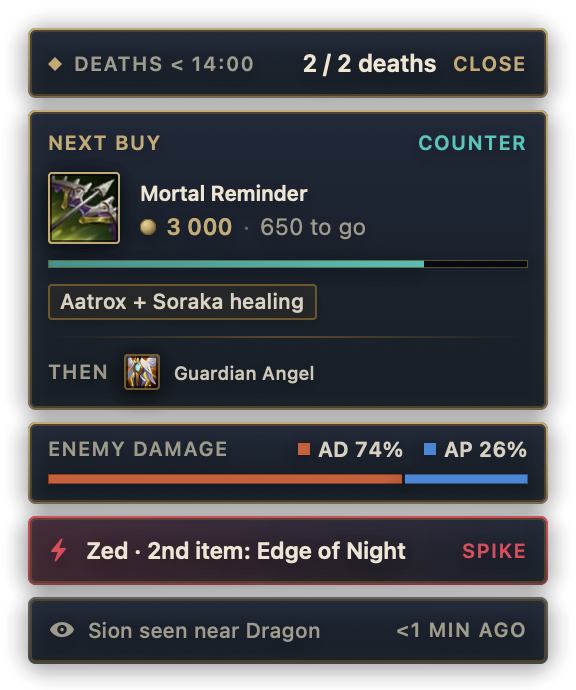
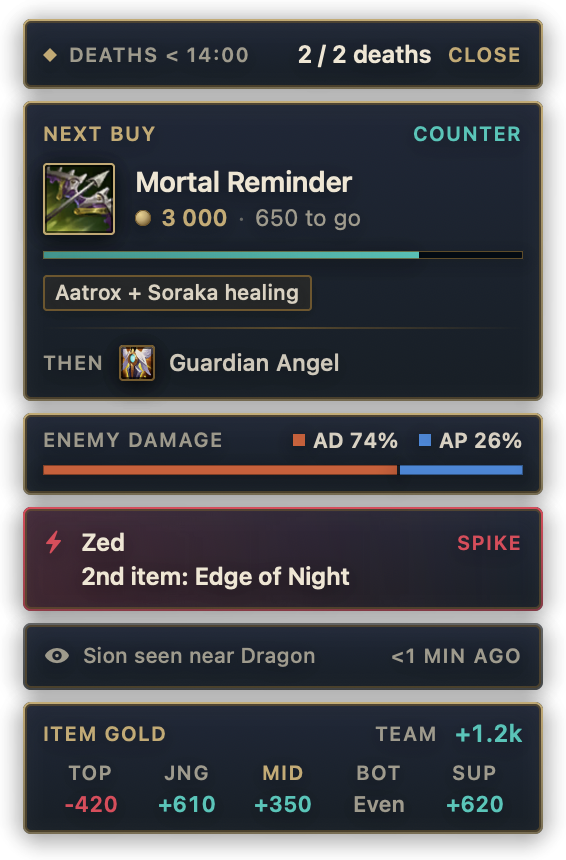
readme

diff --git a/Sources/Companion/Overlay/OverlayModules.swift b/Sources/Companion/Overlay/OverlayModules.swift
@@ -305,12 +305,16 @@ struct SpikeRow: View {
                 .font(.system(size: 10 * k, weight: .bold))
                 .foregroundStyle(LeagueTheme.red)
                 .alignmentGuide(.capCenter) { $0[VerticalAlignment.center] }
-            Text(alert.text)
-                .font(LeagueTheme.title(12 * k, .semibold))
-                .tracking(-0.2 * k)
-                .foregroundStyle(LeagueTheme.text)
-                .lineLimit(1)
-                .capCentered(size: 12 * k, weight: .semibold)
+            // one line when it fits; otherwise champion over the spike (split at the " · "), never cut mid-name.
+            ViewThatFits(in: .horizontal) {
+                line(alert.text).fixedSize(horizontal: true, vertical: false)
+                // the fallback may truncate: an unusually long item name still can't push the label off the card.
+                VStack(alignment: .leading, spacing: 2 * k) {
+                    line(head)
+                    line(tail)
+                }
+            }
+            .capCentered(size: 12 * k, weight: .semibold)
             Spacer(minLength: 10 * k)
             Text("Spike")
                 .leagueLabel(scale: k, color: LeagueTheme.red)
@@ -324,6 +328,18 @@ struct SpikeRow: View {
         }
         .leaguePanel(scale: k, accent: LeagueTheme.red)
         .accessibilityElement(children: .combine)
+    }
+
+    private var parts: [Substring] { alert.text.split(separator: " · ", maxSplits: 1) }
+    private var head: String { parts.count == 2 ? String(parts[0]) : alert.text }
+    private var tail: String { parts.count == 2 ? String(parts[1]) : "" }
+
+    private func line(_ text: String) -> some View {
+        Text(text)
+            .font(LeagueTheme.title(12 * k, .semibold))
+            .tracking(-0.2 * k)
+            .foregroundStyle(LeagueTheme.text)
+            .lineLimit(1)
     }
 }
 

diff --git a/Sources/Companion/Overlay/OverlayController.swift b/Sources/Companion/Overlay/OverlayController.swift
@@ -170,13 +170,16 @@ final class OverlayController {
     @discardableResult
     private func applyLayout() -> Bool {
         let settings = coordinator.settings
-        var requested = settings.overlayScale
-        // hidden screenshot flag `--overlay-scale <value>`: previews a size without touching settings.
-        let args = CommandLine.arguments
-        if let i = args.firstIndex(of: "--overlay-scale"), i + 1 < args.count, let v = Double(args[i + 1]) { requested = v }
+        let requested = settings.overlayScale
         let area = targetArea()
-        let scale = Self.fittedScale(corner: settings.overlayCorner,
+        var scale = Self.fittedScale(corner: settings.overlayCorner,
                                      scale: CGFloat(min(max(requested, 0.6), 1.6)) * Self.screenFactor(area), area: area)
+        // hidden screenshot flag `--overlay-scale <value>`: that exact size, without touching settings or fitting
+        // it to this screen.
+        let args = CommandLine.arguments
+        if let i = args.firstIndex(of: "--overlay-scale"), i + 1 < args.count, let v = Double(args[i + 1]) {
+            scale = CGFloat(min(max(v, 0.6), 1.6))
+        }
         let changed = scale != self.scale || settings.overlayCorner != corner
         self.scale = scale
         corner = settings.overlayCorner
